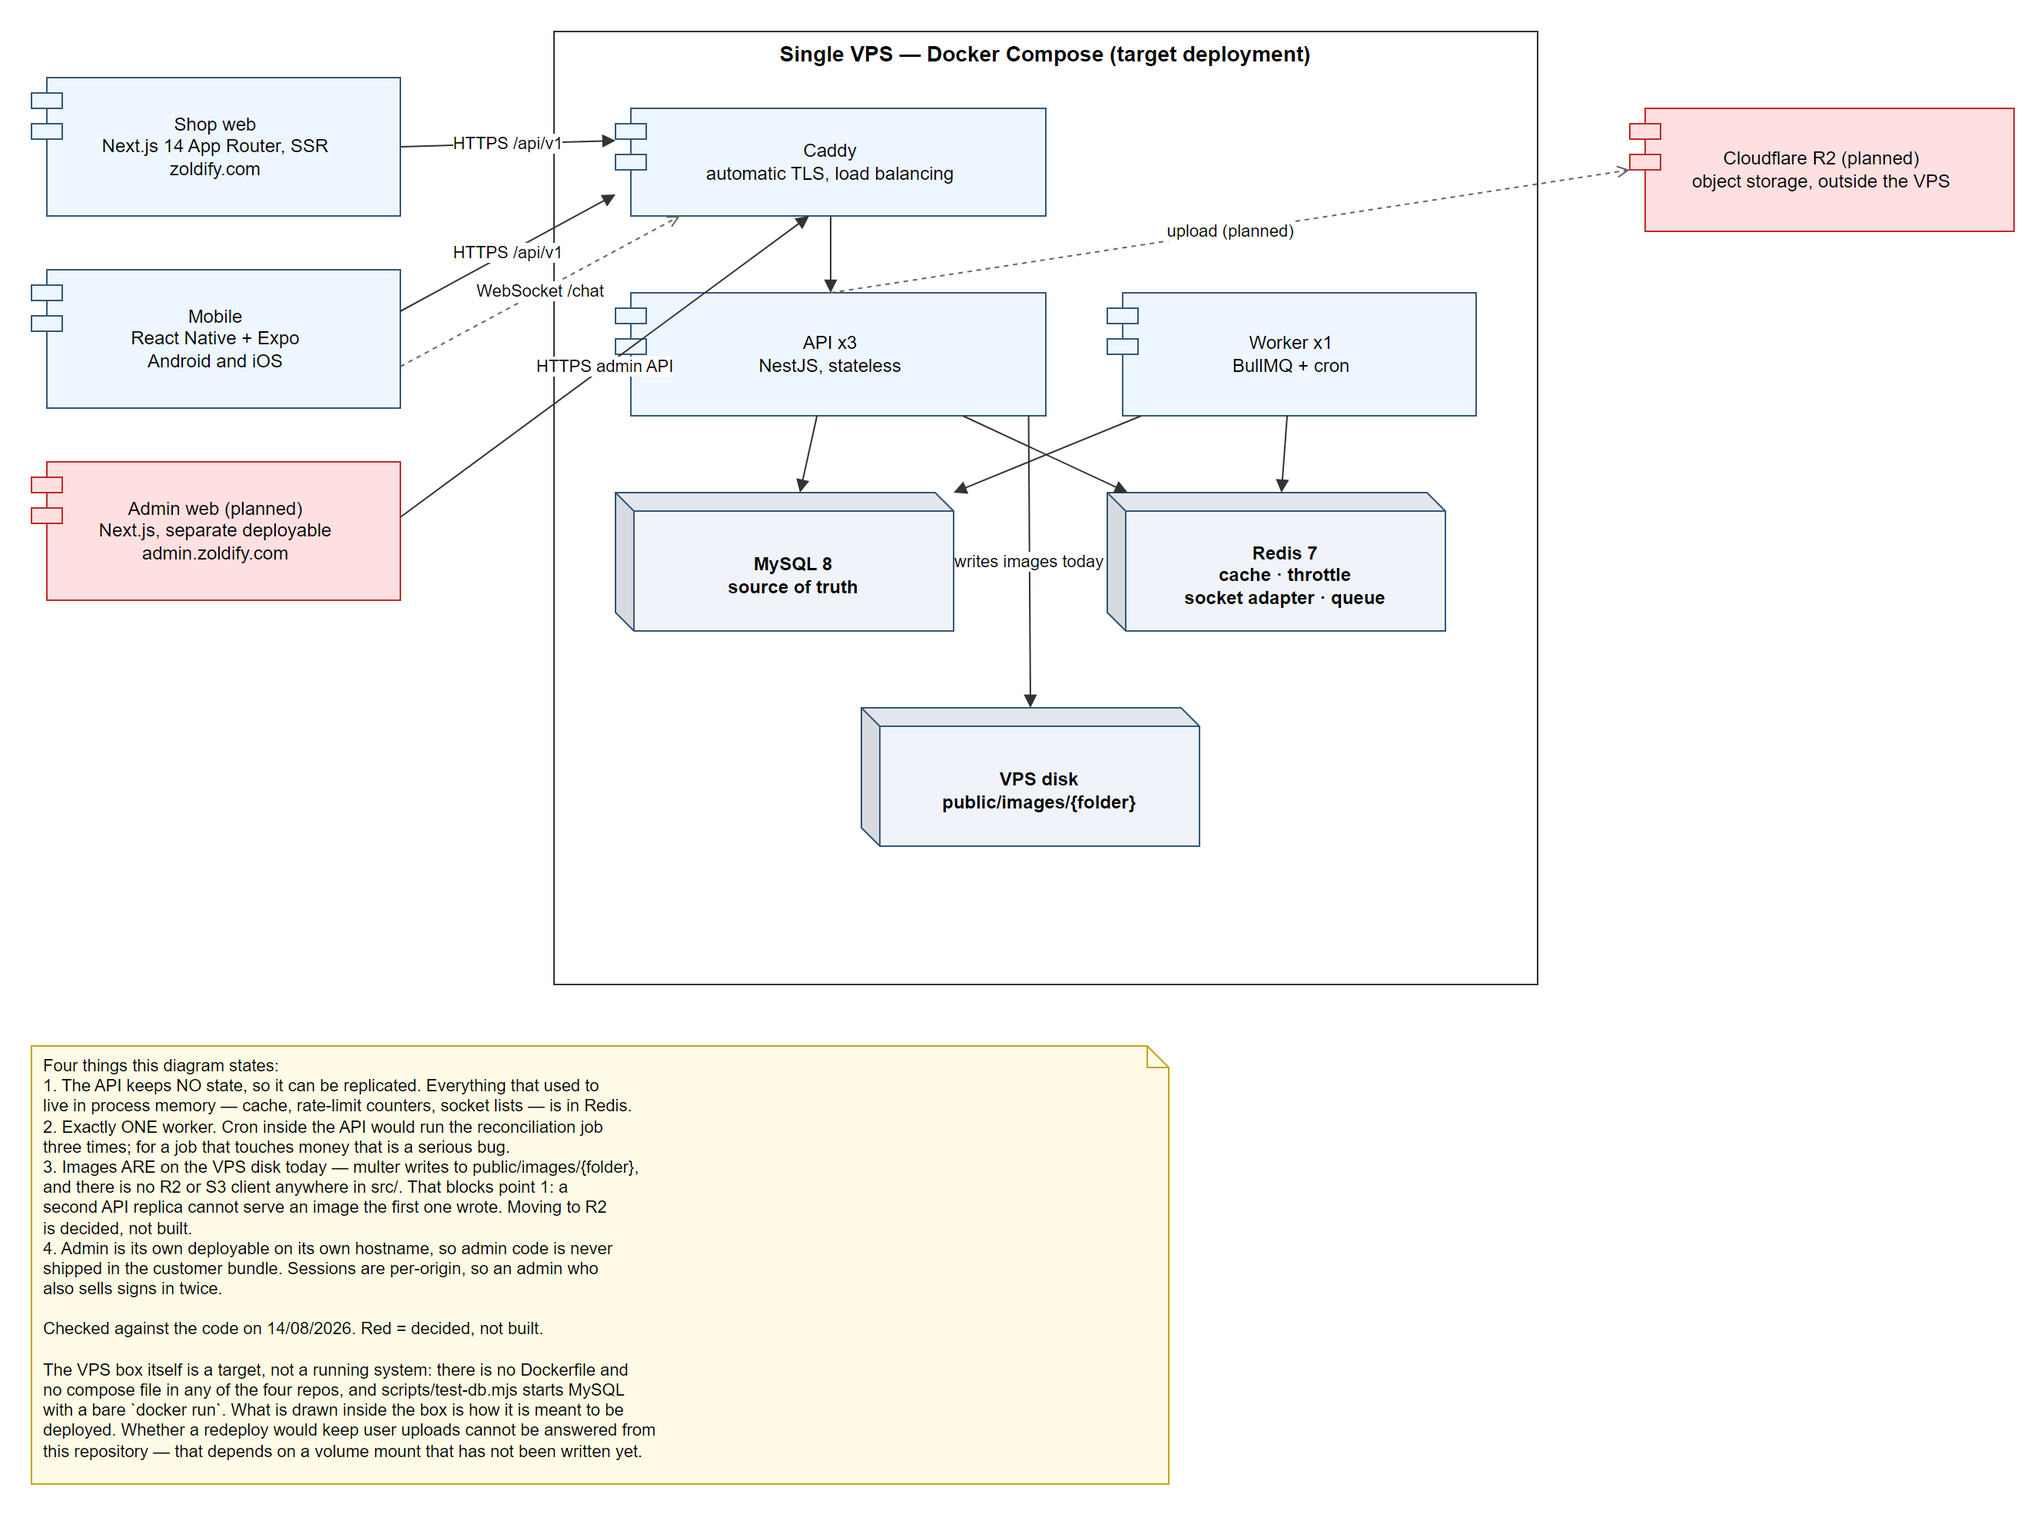
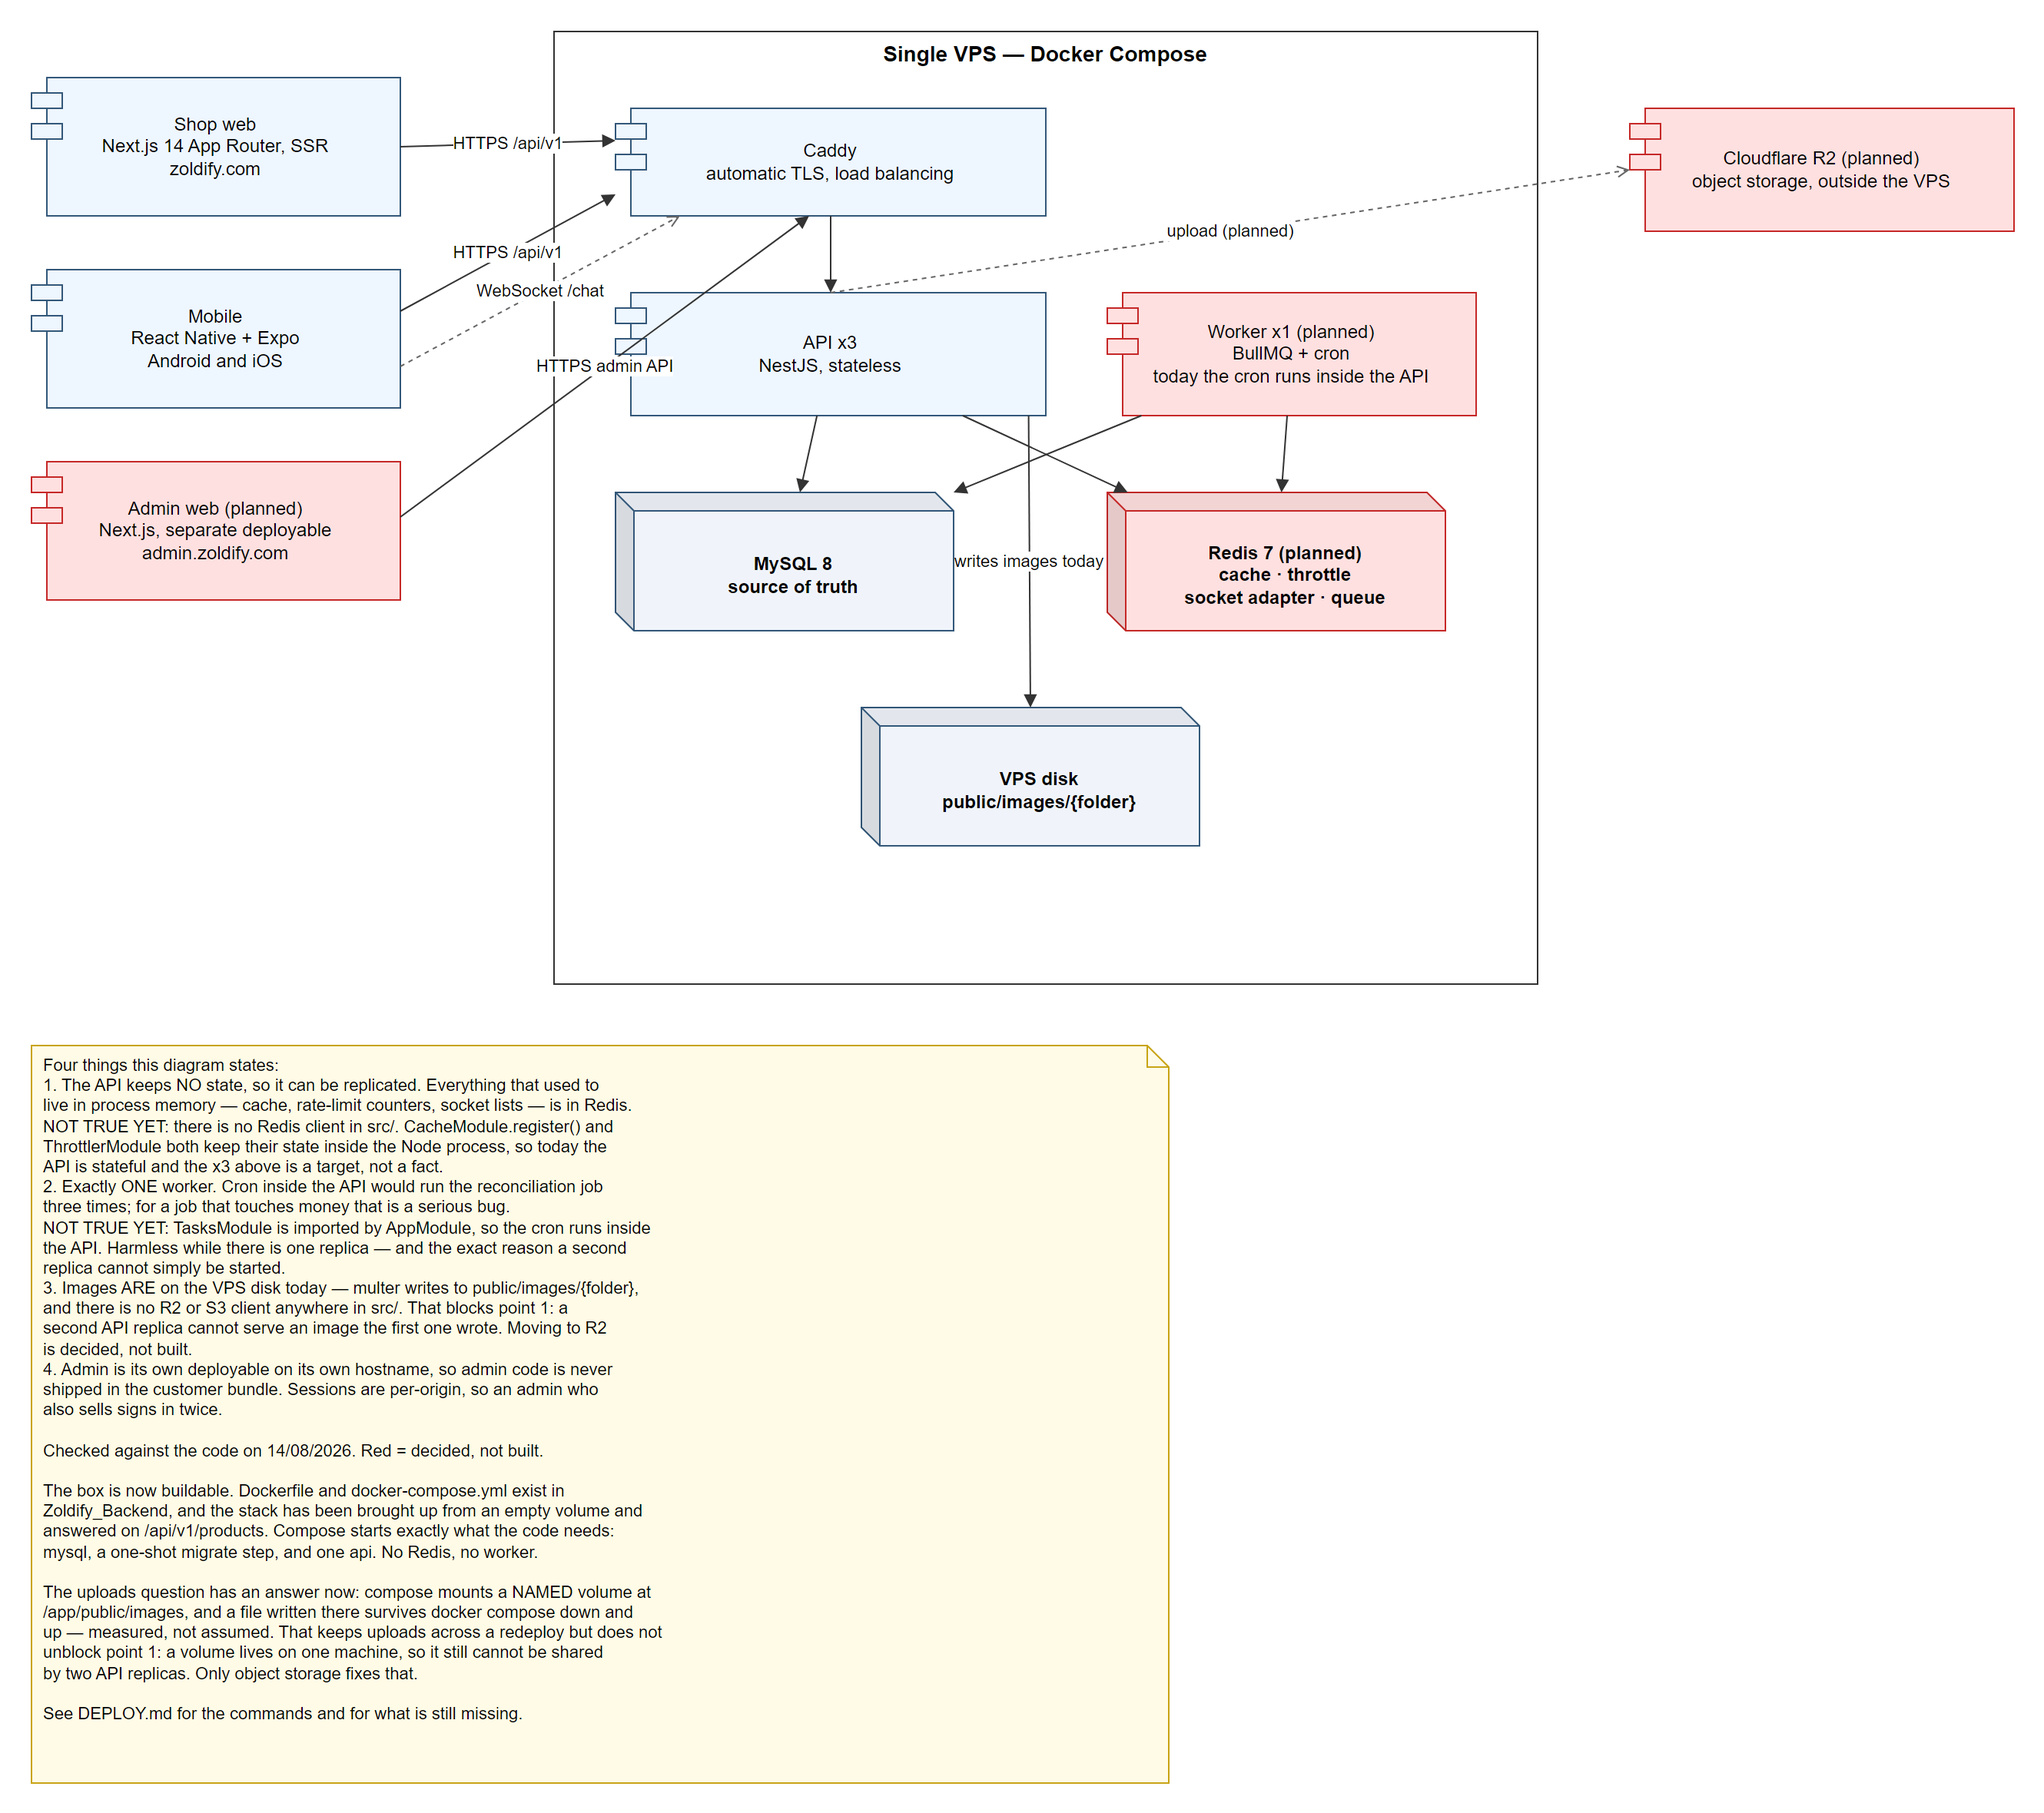
chore: docs(trien-khai): DEPLOY.md cho chuong VI, va sua hai so do noi sai ve ha tang
DEPLOY.md: lenh cai dat da chay that, dinh nghia hai volume, giai thich vi sao
migration la buoc rieng, va bang liet ke thang nhung thu CHUA co (CI, HTTPS,
Redis, nhan ban API, healthcheck cham database, sao luu).

r2-container: Redis va Worker dang duoc ve bang mau cua thanh phan da dung.
Ca hai khong ton tai — khong co client Redis nao trong src/ (hai cho nhac toi
Redis deu la chu thich TODO), va TasksModule do chinh AppModule nap nen cron
chay BEN TRONG tien trinh API. Nghia la dieu so 1 cua chinh so do — "API khong
giu trang thai nen nhan ban duoc" — hom nay la sai. Ca hai chuyen sang do va
ghi chu noi ro cho nao chua dung. Cung loai loi da sua o R2 truoc do.

r8: buoc chay migration chuyen sang den vi no la dich vu `migrate` that trong
compose va da chay. Hai buoc con lai van do: khong co .github/workflows va
khong co VPS.

diff --git a/DEPLOY.md b/DEPLOY.md
@@ -1,0 +1,180 @@
+# Cài đặt và triển khai — Zoldify Backend
+
+Tài liệu cho **chương VI của báo cáo (Installation Instructions)**.
+
+Mọi lệnh dưới đây đã được chạy thật trên máy Windows + Docker Desktop ngày
+14/08/2026, không phải viết theo trí nhớ.
+
+---
+
+## Cần sẵn
+
+| | |
+|---|---|
+| Docker Engine | 24 trở lên (`docker compose` là lệnh con, không phải `docker-compose`) |
+| Cổng trống | một cổng cho API, mặc định 3000 |
+| Dung lượng | ~1.5GB cho ảnh và dữ liệu MySQL |
+
+Không cần cài Node, không cần cài MySQL. Cả hai nằm trong container.
+
+---
+
+## Chạy lần đầu
+
+```bash
+git clone <repo> && cd Zoldify_Backend
+cp .env.sample .env
+```
+
+Mở `.env` và điền **ít nhất ba thứ**, phần còn lại để trống vẫn chạy được:
+
+| Biến | Vì sao bắt buộc |
+|---|---|
+| `DB_PASSWORD` | trở thành mật khẩu root của MySQL trong cụm. Để trống thì compose **dừng** kèm thông báo, thay vì dựng một database mật khẩu rỗng |
+| `JWT_ACCESS_SECRET` | thiếu thì mọi token ký bằng chuỗi rỗng |
+| `JWT_REFRESH_TOKEN_SECRET` | như trên |
+
+Sinh khoá:
+
+```bash
+node -e "console.log(require('crypto').randomBytes(48).toString('base64url'))"
+```
+
+Rồi:
+
+```bash
+npm run docker:up      # docker compose up -d --build
+npm run docker:logs    # xem log của api
+```
+
+Kiểm tra:
+
+```bash
+curl http://localhost:3000/
+# {"statusCode":200,"message":"","data":"Hello World!"}
+```
+
+Tài liệu API: <http://localhost:3000/api/docs>
+
+Cổng khác 3000 thì đặt `API_PORT=3010` trong `.env`. Bên trong container ứng
+dụng luôn nghe cổng 3000; chỉ ánh xạ ra máy chủ là đổi.
+
+---
+
+## Ba dịch vụ, chạy đúng thứ tự này
+
+```
+mysql  →  migrate (chạy một lần rồi thoát)  →  api
+```
+
+`api` chỉ khởi động khi `migrate` đã thoát bằng mã 0
+(`condition: service_completed_successfully`), và `migrate` chỉ chạy khi MySQL
+đã trả lời `mysqladmin ping`.
+
+**Vì sao migration là bước riêng, không nhét vào lúc api khởi động.** Nhét vào
+thì hai chuyện xấu xảy ra cùng lúc: dựng hai bản api là hai tiến trình cùng đổi
+lược đồ, và migration hỏng khiến api rơi vào vòng khởi động lại vô tận, mỗi vòng
+lại thử migrate một lần. Tách ra thì hỏng là dừng hẳn, và log nằm nguyên một chỗ:
+
+```bash
+docker compose logs migrate
+```
+
+---
+
+## Dữ liệu nằm ở đâu
+
+Hai volume có tên. **Có tên** chứ không phải bind mount là chủ ý: lần tạo đầu
+Docker chép nội dung sẵn có trong ảnh vào volume, nên 26 ảnh danh mục đang được
+git theo dõi vẫn còn nguyên.
+
+| Volume | Chứa gì | Mất thì sao |
+|---|---|---|
+| `zoldify_mysql-data` | toàn bộ database | mất sạch dữ liệu |
+| `zoldify_product-images` | ảnh người bán tải lên | mất sạch ảnh hàng |
+
+Ảnh nằm trên **đĩa**, không phải trên object storage — `multer.config.ts` dùng
+`diskStorage` ghi vào `public/images/{folder_type}`, và không có client R2 hay S3
+nào trong `src/`. Đó là lý do dòng volume kia không được bỏ: thiếu nó, ảnh nằm
+trong lớp ghi của container, và `docker compose up` với ảnh mới tạo container
+mới — toàn bộ ảnh hàng của mọi người bán biến mất.
+
+Đã đo, không phải suy luận: ghi một file vào `/app/public/images`, chạy
+`docker compose down` rồi `up`, file vẫn còn.
+
+```bash
+docker compose down        # dừng, GIỮ dữ liệu
+docker compose down -v     # dừng và XOÁ cả hai volume
+```
+
+---
+
+## Cập nhật phiên bản mới
+
+```bash
+git pull
+npm run docker:up          # dựng lại ảnh, chạy migration, khởi động lại api
+```
+
+Chưa có CI nên chưa có ảnh dựng sẵn trên registry — máy chủ tự dựng lấy. Xem
+`r8-cicd-pipeline` để biết phần nào của quy trình đã có, phần nào chưa.
+
+---
+
+## Database dựng từ số không
+
+`src/migrations/1690000000000-InitialSchema.ts` tạo toàn bộ 25 bảng. Sau nó là
+năm migration cũ, tất cả đều chịu được chạy lại.
+
+**Chuyện đã xảy ra và vì sao có file đó.** Trước ngày 14/08, năm migration đang
+có đều là `ALTER` — thêm index, thêm cột, xoá cột — và không cái nào tạo `users`,
+`products`, `orders`. Các bảng ấy sinh ra từ `synchronize: true` trên máy người
+viết code rồi không ai chép lại vào migration. Chạy `migration:run` trên một
+database rỗng cho ra **đúng 4 bảng**.
+
+Tệ hơn: nó không báo lỗi. `AddPerformanceIndexes` bọc mọi câu lệnh trong
+`.catch(() => {})`, nên nó nuốt `Table 'products' doesn't exist` rồi tự ghi vào
+bảng `migrations` là đã chạy xong. Một database rỗng mang nhãn *"đã cập nhật tới
+bản mới nhất"*, và lần `migration:run` sau trả lời "không có gì để chạy".
+
+Phát hiện đúng lúc chạy `docker compose up` lần đầu — đó là giá trị của việc
+viết file triển khai thay vì tả nó.
+
+Máy nào đã có sẵn lược đồ từ `synchronize` thì `InitialSchema` tự bỏ qua: nó
+kiểm `hasTable('users')` trước, thấy có thì ghi nhận là đã chạy rồi thoát. Không
+ai phải xoá database đang làm việc.
+
+---
+
+## Chưa có, và biết là chưa có
+
+| Thứ | Trạng thái |
+|---|---|
+| CI/CD | không có `.github/workflows` trong bất kỳ repo nào |
+| HTTPS / reverse proxy | `r2-container` vẽ Caddy; chưa dựng |
+| Redis | **không có dòng code nào dùng** — bộ nhớ đệm nằm trong tiến trình Node (`CacheModule.register()`), nên compose cũng không khởi động Redis |
+| Nhân bản API | chặn bởi chỗ để ảnh: volume nằm trên một máy, hai bản API không dùng chung được |
+| Healthcheck thật | `GET /` chỉ nói tiến trình còn sống, **không** chạm database. Cụm vẫn báo healthy khi MySQL đã chết |
+| Sao lưu | chưa có lịch dump `mysql-data` |
+
+---
+
+## Khi hỏng
+
+**`compose up` dừng ngay với `DB_PASSWORD đang trống`** — đúng như thiết kế. Điền
+`DB_PASSWORD` vào `.env`.
+
+**`api` khởi động rồi tắt.** Xem `docker compose logs api`. Thường là biến môi
+trường thiếu; `npm run env:check` liệt kê biến nào chưa có.
+
+**`migrate` thoát khác 0.** `api` sẽ không khởi động — đó là chủ ý. Đọc
+`docker compose logs migrate`, sửa, rồi `npm run docker:up` lại.
+
+**`ports are not available: ... 3000`.** Cổng đang bị chiếm, thường là bởi
+`npm run start:dev` chạy song song. Đặt `API_PORT=3010`.
+
+**Muốn xoá sạch làm lại từ đầu:**
+
+```bash
+docker compose down -v && npm run docker:up
+```
